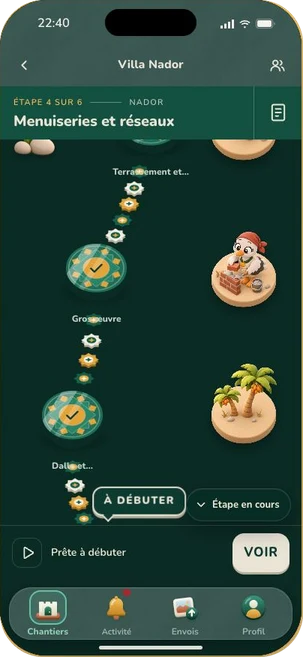
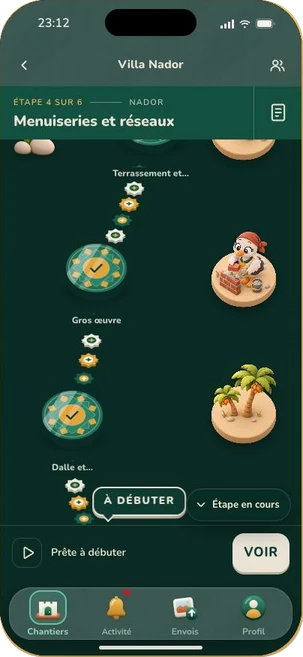
Mise à jour du 26/11/2026 23:14

diff --git a/css/app.css b/css/app.css
@@ -2367,3 +2367,6 @@ summary { min-height: 44px; display: flex; align-items: center; gap: 6px; cursor
 }
 /* Vague 26 (rejeu au doigt : Mimouna) : un chip qui se touche (bouton) fait 44 px de haut ; les étiquettes restent petites. */
 button.chip { min-height: 44px; }
+/* 26 nov. : le nom de l'étape passe au-dessus des pavés du chemin (ils le barraient : « Gros●œuvre »). */
+.node-label { z-index: 2; }
+.node-label .nn { display: inline-block; padding: 2px 8px 3px; border-radius: 999px; background: var(--paper); }

diff --git a/css/oral.css b/css/oral.css
@@ -590,3 +590,5 @@ body.orateur .deck, body.orateur .parties, body.orateur .compteur { display: non
 .s-fin > .chemin-oral { display: none; }
 .slide > .confettis { width: 330px; right: 40px; }
 .slide > .ecrans { bottom: 52px; }
+.slide > .ecrans { bottom: 26px; }
+.e-entreprise { transform: translateY(-18px); }
